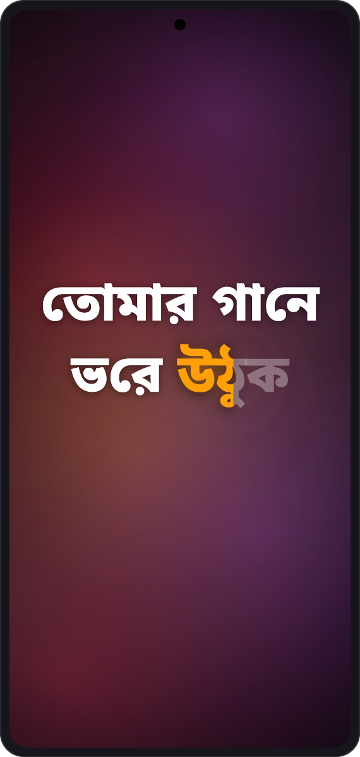
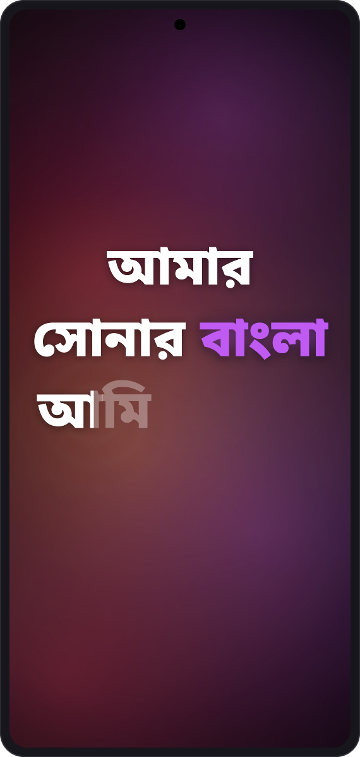
Simpler controls overlay; real lyric excerpts in screenshots; split long kana runs
Move the sync nudge and .lrc import from the controls overlay into a
"This song" section in Settings, and fade the lyrics while the controls
are open so the title never collides with them.

Screenshots now quote one line each from real songs. The Japanese
tokenizer splits long hiragana runs at particles (or every four
characters) when the word breaker returns them whole.

Claude-Session: https://claude.ai/code/session_01MLXWG1CmD9ZGWnpi2j6esJ

Changed region(s): [[0.0917, 0.3038, 0.9167, 0.5773]]

diff --git a/tools/screenshots/src/Render.kt b/tools/screenshots/src/Render.kt
@@ -379,16 +379,15 @@ fun renderStage(s: Shot, dim: Float = 1f): BufferedImage {
     g.hq()
     val fp = layout.words.firstOrNull()?.fontPx ?: 80f
     val shadowBlur = blur(shadow, (fp * 0.08f).toInt().coerceAtLeast(2))
+    // like LyricStage, dimming fades the lyrics layer only, not the background
+    g.composite = AlphaComposite.getInstance(AlphaComposite.SRC_OVER, dim)
     g.drawImage(shadowBlur, 0, (fp * 0.035f).toInt(), null)
     val glowBlur = blur(glow, (fp * 0.14f).toInt().coerceAtLeast(3))
-    g.composite = AlphaComposite.getInstance(AlphaComposite.SRC_OVER, 0.75f)
+    g.composite = AlphaComposite.getInstance(AlphaComposite.SRC_OVER, 0.75f * dim)
     g.drawImage(glowBlur, 0, 0, null)
-    g.composite = AlphaComposite.SrcOver
+    g.composite = AlphaComposite.getInstance(AlphaComposite.SRC_OVER, dim)
     g.drawImage(type, 0, 0, null)
-    if (dim < 1f) {
-        g.color = Color(0, 0, 0, ((1 - dim) * 255).toInt())
-        g.fillRect(0, 0, W, H)
-    }
+    g.composite = AlphaComposite.SrcOver
     g.dispose()
     println("${s.name}: ${s.template} '${line.text}' word ${k + 1}/${line.words.size}, fits=${layout.fits}")
     return img
@@ -404,7 +403,7 @@ fun renderControls(base: BufferedImage, pal: Pal): BufferedImage {
     g.paint = GradientPaint(0f, H * 0.45f, Color(0, 0, 0, 0), 0f, H.toFloat(), Color(0, 0, 0, 217))
     g.fillRect(0, 0, W, H)
     val pad = 20 * dp
-    var y = H - 48 * dp - 300 * dp
+    var y = H - 48 * dp - 230 * dp
 
     // artwork thumb, title, artist, settings
     val thumb = 56 * dp
@@ -473,22 +472,6 @@ fun renderControls(base: BufferedImage, pal: Pal): BufferedImage {
         g.drawString(label, x + 16 * dp, y + 5 * dp)
         x += tw + 8 * dp
     }
-    y += 44 * dp
-
-    // sync nudge
-    g.color = Color.WHITE
-    g.font = fSemi.deriveFont(14 * dp)
-    g.drawString("−250 ms", pad + 8 * dp, y)
-    g.font = fRegular.deriveFont(13 * dp)
-    g.drawString("Sync +250 ms", pad + 92 * dp, y)
-    g.font = fSemi.deriveFont(14 * dp)
-    g.drawString("+250 ms", pad + 196 * dp, y)
-    val imp = "Import .lrc"
-    g.drawString(imp, W - pad - g.fontMetrics.stringWidth(imp) - 8 * dp, y)
-    y += 22 * dp
-    g.color = Color(255, 255, 255, 128)
-    g.font = fRegular.deriveFont(11 * dp)
-    g.drawString("Lyrics late? Tap +. Early? Tap −.", pad, y)
     g.dispose()
     return img
 }
@@ -542,10 +525,10 @@ fun main() {
     val shots = listOf(
         Shot("stack", "rickroll", "Never gonna", TemplateId.STACK, sunset, 0.85f, 11, 4),
         Shot("zoom", "rickroll", "Never gonna let", TemplateId.ZOOM, dusk, 0.85f, 3, 9, fill = -0.04f),
-        Shot("graph", "hindi", "तेरी यादों", TemplateId.GRAPH, ember, 0.7f, 21, 2),
-        Shot("flow", "japanese", "夜空に", TemplateId.FLOW, ocean, 0.55f, 5, 6),
-        Shot("letters", "bengali", "তোমার গানে", TemplateId.LETTERS, rose, 0.6f, 8, 3),
-        Shot("scatter", "rap", "Count the bars", TemplateId.SCATTER, forest, 0.62f, 13, 5),
+        Shot("graph", "tumhiho", "हम तेरे", TemplateId.GRAPH, ember, 0.7f, 21, 2),
+        Shot("flow", "lemon", "夢ならば", TemplateId.FLOW, ocean, 0.55f, 5, 6),
+        Shot("letters", "sonarbangla", "আমার", TemplateId.LETTERS, rose, 0.6f, 8, 3),
+        Shot("scatter", "loseyourself", "Look,", TemplateId.SCATTER, forest, 0.62f, 13, 5),
     )
     val phones = HashMap<String, BufferedImage>()
     for (s in shots) {
@@ -554,7 +537,7 @@ fun main() {
         phones[s.name] = ph
         save(scale(ph, 360), "stage-${s.name}.png")
     }
-    val ctrlBase = renderStage(Shot("controls", "rickroll", "Never gonna", TemplateId.STACK, sunset, 0.85f, 11, 4))
+    val ctrlBase = renderStage(Shot("controls", "rickroll", "Never gonna", TemplateId.STACK, sunset, 0.85f, 11, 4), dim = 0.3f)
     val controls = phone(renderControls(ctrlBase, sunset))
     phones["controls"] = controls
     save(scale(controls, 360), "controls.png")

diff --git a/app/src/main/java/com/lyricstage/ui/SettingsScreen.kt b/app/src/main/java/com/lyricstage/ui/SettingsScreen.kt
@@ -1,5 +1,8 @@
 package com.lyricstage.ui
 
+import android.widget.Toast
+import androidx.activity.compose.rememberLauncherForActivityResult
+import androidx.activity.result.contract.ActivityResultContracts
 import androidx.compose.foundation.background
 import androidx.compose.foundation.clickable
 import androidx.compose.foundation.layout.Arrangement
@@ -18,6 +21,7 @@ import androidx.compose.foundation.verticalScroll
 import androidx.compose.material3.FilterChip
 import androidx.compose.material3.HorizontalDivider
 import androidx.compose.material3.MaterialTheme
+import androidx.compose.material3.OutlinedButton
 import androidx.compose.material3.Slider
 import androidx.compose.material3.Switch
 import androidx.compose.material3.Text
@@ -27,6 +31,7 @@ import androidx.compose.runtime.getValue
 import androidx.compose.ui.Alignment
 import androidx.compose.ui.Modifier
 import androidx.compose.ui.graphics.Color
+import androidx.compose.ui.platform.LocalContext
 import androidx.compose.ui.res.stringResource
 import androidx.compose.ui.text.font.FontWeight
 import androidx.compose.ui.unit.dp
@@ -39,6 +44,16 @@ import com.lyricstage.settings.BackgroundMode
 @Composable
 fun SettingsScreen(vm: StageViewModel, systemReduceMotion: Boolean, onBack: () -> Unit, onOpen: (Screen) -> Unit) {
     val s by vm.settings.collectAsStateWithLifecycle()
+    val track by vm.query.collectAsStateWithLifecycle()
+    val offset by vm.offset.collectAsStateWithLifecycle()
+    val context = LocalContext.current
+    val importLauncher = rememberLauncherForActivityResult(ActivityResultContracts.OpenDocument()) { uri ->
+        if (uri != null) {
+            vm.import(uri, context.contentResolver) { ok ->
+                Toast.makeText(context, if (ok) R.string.import_done else R.string.import_failed, Toast.LENGTH_SHORT).show()
+            }
+        }
+    }
     Column(
         Modifier
             .fillMaxSize()
@@ -50,6 +65,26 @@ fun SettingsScreen(vm: StageViewModel, systemReduceMotion: Boolean, onBack: () -
         Row(verticalAlignment = Alignment.CenterVertically) {
             TextButton(onClick = onBack) { Text(stringResource(R.string.back)) }
             Text(stringResource(R.string.settings), style = MaterialTheme.typography.titleLarge, fontWeight = FontWeight.Bold)
+        }
+
+        // per-song tools: only meaningful while something is playing
+        Section(stringResource(R.string.settings_this_song))
+        val current = track
+        if (current == null) {
+            Text(stringResource(R.string.settings_no_song), color = Color.White.copy(alpha = 0.6f), style = MaterialTheme.typography.bodyMedium)
+        } else {
+            Text(current.title + " · " + current.artist, style = MaterialTheme.typography.bodyLarge)
+            Row(verticalAlignment = Alignment.CenterVertically) {
+                OutlinedButton(onClick = { vm.nudge(-250) }) { Text(stringResource(R.string.sync_earlier)) }
+                Text(
+                    stringResource(R.string.sync_label, offset.toInt()),
+                    modifier = Modifier.padding(horizontal = 12.dp),
+                )
+                OutlinedButton(onClick = { vm.nudge(250) }) { Text(stringResource(R.string.sync_later)) }
+            }
+            Text(stringResource(R.string.sync_hint), color = Color.White.copy(alpha = 0.6f), style = MaterialTheme.typography.bodyMedium)
+            Spacer(Modifier.height(8.dp))
+            OutlinedButton(onClick = { importLauncher.launch(arrayOf("*/*")) }) { Text(stringResource(R.string.import_lrc)) }
         }
 
         Section(stringResource(R.string.settings_template))

diff --git a/core/src/main/kotlin/com/lyricstage/core/text/Tokenizer.kt b/core/src/main/kotlin/com/lyricstage/core/text/Tokenizer.kt
@@ -13,6 +13,13 @@ object Tokenizer {
     private fun isKana(s: String) = s.all { it in '぀'..'ゟ' }
     private fun isPunct(s: String) = s.all { !Character.isLetterOrDigit(it) }
 
+    /** Particles a phrase usually ends on: ha ga wo ni de to mo he ba ya. */
+    private const val PARTICLES = "はがをにでともへばや"
+
+    /** Small kana and the long vowel mark belong to the character before them. */
+    private const val TRAILING = "ゃゅょぁぃぅぇぉっ" +
+        "ャュョァィゥェォッー"
+
     /** Japanese has no spaces: group word-break segments into short phrases (2 to 7 chars). */
     private fun splitJapanese(text: String): List<String> {
         val chunks = ArrayList<String>()
@@ -23,11 +30,16 @@ object Tokenizer {
             }
             val it = BreakIterator.getWordInstance(Locale.JAPANESE)
             it.setText(part)
+            val segs = ArrayList<String>()
             var start = it.first()
             var end = it.next()
-            var current = ""
             while (end != BreakIterator.DONE) {
-                val seg = part.substring(start, end)
+                segs += splitLongKana(part.substring(start, end))
+                start = end
+                end = it.next()
+            }
+            var current = ""
+            for (seg in segs) {
                 val attach = current.isNotEmpty() && (isPunct(seg) || (isKana(seg) && seg.length <= 2) || current.length < 2)
                 if (attach && current.length + seg.length <= 7) {
                     current += seg
@@ -35,11 +47,31 @@ object Tokenizer {
                     if (current.isNotEmpty()) chunks += current
                     current = seg
                 }
-                start = end
-                end = it.next()
             }
             if (current.isNotEmpty()) chunks += current
         }
         return chunks
+    }
+
+    /**
+     * Some word breakers (the JVM's, for one) return a whole run of hiragana as one word.
+     * Split runs longer than 7 characters after a particle, or else every 4 characters,
+     * never in front of a small kana.
+     */
+    internal fun splitLongKana(seg: String): List<String> {
+        if (seg.length <= 7 || !isKana(seg)) return listOf(seg)
+        val out = ArrayList<String>()
+        var cur = StringBuilder()
+        for ((i, ch) in seg.withIndex()) {
+            cur.append(ch)
+            val next = seg.getOrNull(i + 1) ?: break
+            if (next in TRAILING) continue
+            if ((ch in PARTICLES && cur.length >= 2) || cur.length >= 4) {
+                out += cur.toString()
+                cur = StringBuilder()
+            }
+        }
+        if (cur.isNotEmpty()) out += cur.toString()
+        return out
     }
 }

diff --git a/app/src/main/java/com/lyricstage/ui/ControlsOverlay.kt b/app/src/main/java/com/lyricstage/ui/ControlsOverlay.kt
@@ -50,21 +50,18 @@ import com.lyricstage.media.NowPlaying
 import com.lyricstage.settings.StageSettings
 import kotlinx.coroutines.delay
 
-/** Tap-to-show controls: artwork, title, seek bar, transport, template picker, sync nudge. */
+/** Tap-to-show controls: artwork, title, seek bar, transport and template picker. Sync and import live in Settings. */
 @Composable
 fun ControlsOverlay(
     nowPlaying: NowPlaying,
     clock: PlaybackClock,
     settings: StageSettings,
-    offsetMs: Long,
     onInteract: () -> Unit,
     onPlayPause: () -> Unit,
     onPrevious: () -> Unit,
     onNext: () -> Unit,
     onSeek: (Long) -> Unit,
     onTemplate: (TemplateId?) -> Unit,
-    onNudge: (Long) -> Unit,
-    onImport: () -> Unit,
     onSettings: () -> Unit,
 ) {
     val position by produceState(clock.smoothedPositionMs()) {
@@ -150,20 +147,6 @@ fun ControlsOverlay(
                 }
             }
 
-            Spacer(Modifier.height(8.dp))
-            Row(verticalAlignment = Alignment.CenterVertically) {
-                TextButton(onClick = { onNudge(-250); onInteract() }) { Text(stringResource(R.string.sync_earlier), color = Color.White) }
-                Text(
-                    stringResource(R.string.sync_label, offsetMs.toInt()),
-                    color = Color.White,
-                    fontSize = 13.sp,
-                    modifier = Modifier.padding(horizontal = 4.dp),
-                )
-                TextButton(onClick = { onNudge(250); onInteract() }) { Text(stringResource(R.string.sync_later), color = Color.White) }
-                Spacer(Modifier.weight(1f))
-                TextButton(onClick = onImport) { Text(stringResource(R.string.import_lrc), color = Color.White) }
-            }
-            Text(stringResource(R.string.sync_hint), color = Color.White.copy(alpha = 0.5f), fontSize = 11.sp)
         }
     }
 }

diff --git a/app/src/main/java/com/lyricstage/ui/StageScreen.kt b/app/src/main/java/com/lyricstage/ui/StageScreen.kt
@@ -39,7 +39,6 @@ fun StageScreen(vm: StageViewModel, systemReduceMotion: Boolean, onOpenSettings:
     val settings by vm.settings.collectAsStateWithLifecycle()
     val palette by vm.palette.collectAsStateWithLifecycle()
     val seed by vm.playSeed.collectAsStateWithLifecycle()
-    val offset by vm.offset.collectAsStateWithLifecycle()
     val reduceMotion = settings.reduceMotion || systemReduceMotion
 
     val bgClock = remember { BackgroundClock() }
@@ -133,6 +132,7 @@ fun StageScreen(vm: StageViewModel, systemReduceMotion: Boolean, onOpenSettings:
                         highlightIntensity = settings.highlightIntensity,
                         reduceMotion = reduceMotion,
                         isPlaying = current.isPlaying,
+                        dimmed = controlsVisible,
                         showFps = settings.showFps,
                         onRipple = { ripples.emit(it, bgClock.seconds()) },
                         onVisibleTemplate = { visibleTemplate = it },
@@ -147,15 +147,12 @@ fun StageScreen(vm: StageViewModel, systemReduceMotion: Boolean, onOpenSettings:
                     nowPlaying = current,
                     clock = vm.clock,
                     settings = settings,
-                    offsetMs = offset,
                     onInteract = { interactions++ },
                     onPlayPause = { if (current.isPlaying) vm.sessions.pause() else vm.sessions.play() },
                     onPrevious = { vm.sessions.previous() },
                     onNext = { vm.sessions.next() },
                     onSeek = { vm.sessions.seekTo(it) },
                     onTemplate = { vm.setTemplate(it) },
-                    onNudge = { vm.nudge(it) },
-                    onImport = pickLrc,
                     onSettings = onOpenSettings,
                 )
             }

diff --git a/app/src/main/java/com/lyricstage/stage/LyricStage.kt b/app/src/main/java/com/lyricstage/stage/LyricStage.kt
@@ -59,6 +59,8 @@ fun LyricStage(
     highlightIntensity: Float,
     reduceMotion: Boolean,
     isPlaying: Boolean,
+    /** Controls are open: the lyrics step back so the overlay stays readable. */
+    dimmed: Boolean,
     showFps: Boolean,
     onRipple: (Ripple) -> Unit,
     onVisibleTemplate: (TemplateId?) -> Unit,
@@ -120,8 +122,13 @@ fun LyricStage(
         }
     }
 
-    // the stage dims while paused and holds the current line
-    val dim by animateFloatAsState(if (isPlaying) 1f else 0.55f, tween(400), label = "pause-dim")
+    // the stage dims while paused (holding the current line) and while the controls are open
+    val target = when {
+        dimmed -> 0.3f
+        !isPlaying -> 0.55f
+        else -> 1f
+    }
+    val dim by animateFloatAsState(target, tween(300), label = "stage-dim")
 
     Box(
         modifier

diff --git a/core/src/test/kotlin/com/lyricstage/core/LyricsTest.kt b/core/src/test/kotlin/com/lyricstage/core/LyricsTest.kt
@@ -73,6 +73,14 @@ class LyricsTest {
         assertTrue(lyrics.lines[0].words.size in 2..8)
     }
 
+    @Test fun longKanaRunsAreSplit() {
+        val line = "\u5922\u306A\u3089\u3070\u3069\u308C\u307B\u3069\u3088\u304B\u3063\u305F\u3067\u3057\u3087\u3046"
+        val words = com.lyricstage.core.text.Tokenizer.tokenize(line, Script.JAPANESE)
+        assertEquals(line, words.joinToString(""))
+        assertTrue("got $words", words.size >= 3 && words.all { it.length <= 7 })
+        assertTrue("got $words", words.none { it.first() in "\u3083\u3085\u3087\u3063\u30FC" })
+    }
+
     @Test fun chorusRepeatsCounted() {
         val lyrics = LyricsBuilder.fromLrc(Samples.read("english"), 60_000)
         assertEquals(2, lyrics.lines.first().repeats)

diff --git a/README.md b/README.md
@@ -26,11 +26,11 @@ LyricStage shows word-synced lyrics for whatever is playing on your Android phon
 | **Flow** | **Letters** | **Scatter** |
 | ![Flow layout with Japanese lyrics and a romanised line](docs/screenshots/stage-flow.png) | ![Letters layout with Bengali lyrics](docs/screenshots/stage-letters.png) | ![Scatter layout](docs/screenshots/stage-scatter.png) |
 
-<p align="center"><img src="docs/screenshots/controls.png" width="300" alt="Controls overlay with seek bar, playback buttons, layout picker and sync nudge"></p>
+<p align="center"><img src="docs/screenshots/controls.png" width="300" alt="Controls overlay with seek bar, playback buttons and layout picker"></p>
 
-Tap the stage to show the controls for three seconds: seek bar, play and pause, skip, layout picker and sync nudge.
+Tap the stage to show the controls for three seconds: seek bar, play and pause, skip and the layout picker. The lyrics fade back while the controls are open.
 
-The images above are drawn by the app's own layout engine (`core`) with the bundled fonts, from the sample lyrics in `core/src/test/resources/samples` plus the first two lines of Rick Astley's "Never Gonna Give You Up" for the English shots. The background is an approximation of the shader. `tools/screenshots/render.sh` regenerates them.
+The images above are drawn by the app's own layout engine (`core`) with the bundled fonts. The background is an approximation of the shader. The lyric lines are short excerpts quoted to show the layouts: Rick Astley, "Never Gonna Give You Up"; Arijit Singh, "Tum Hi Ho"; Kenshi Yonezu, "Lemon"; Rabindranath Tagore, "Amar Shonar Bangla"; Eminem, "Lose Yourself". `tools/screenshots/render.sh` regenerates them.
 
 ## Install
 
@@ -48,10 +48,10 @@ Releases are currently signed with a temporary key, so uninstall the previous ve
 
 - Tap the stage to show or hide the controls.
 - Long-press the stage to lock the current layout. Long-press again to go back to automatic.
-- If the words run early or late, use the sync buttons. Each tap moves the lyrics by 250 ms, and the setting is saved for that song.
-- If LRCLIB has no lyrics for a song, use "Import .lrc" to pick a file from the phone. It is saved for that song.
+- If the words run early or late, open Settings and use the sync buttons under "This song". Each tap moves the lyrics by 250 ms, and the setting is saved for that song.
+- If LRCLIB has no lyrics for a song, use "Import .lrc" on the stage or under "This song" in Settings to pick a file from the phone. It is saved for that song.
 - Songs with lyrics but no timings scroll slowly with the song and are labelled as unsynced.
-- Settings has the layout lock, background style, text size, highlight strength and reduce motion. Debug screens there show the player's raw and smoothed position, the fetched lyrics, and FitCheck, which lays out every cached line in every layout and lists any word that would be cut off.
+- Settings also has the layout lock, background style, text size, highlight strength and reduce motion. Debug screens there show the player's raw and smoothed position, the fetched lyrics, and FitCheck, which lays out every cached line in every layout and lists any word that would be cut off.
 
 ## Privacy
 

diff --git a/CHANGELOG.md b/CHANGELOG.md
@@ -3,6 +3,10 @@
 ## [Unreleased]
 
 ### Changed
+- The controls overlay is simpler: sync nudge and .lrc import moved to a "This song" section
+  in Settings, and the lyrics fade back while the controls are open.
+- Long runs of hiragana are split into short phrases even when the system word breaker
+  returns them as one word.
 - Lines now wrap onto whichever row count gives the largest text, so long Japanese or
   Flow lines no longer shrink into one small row.
 
